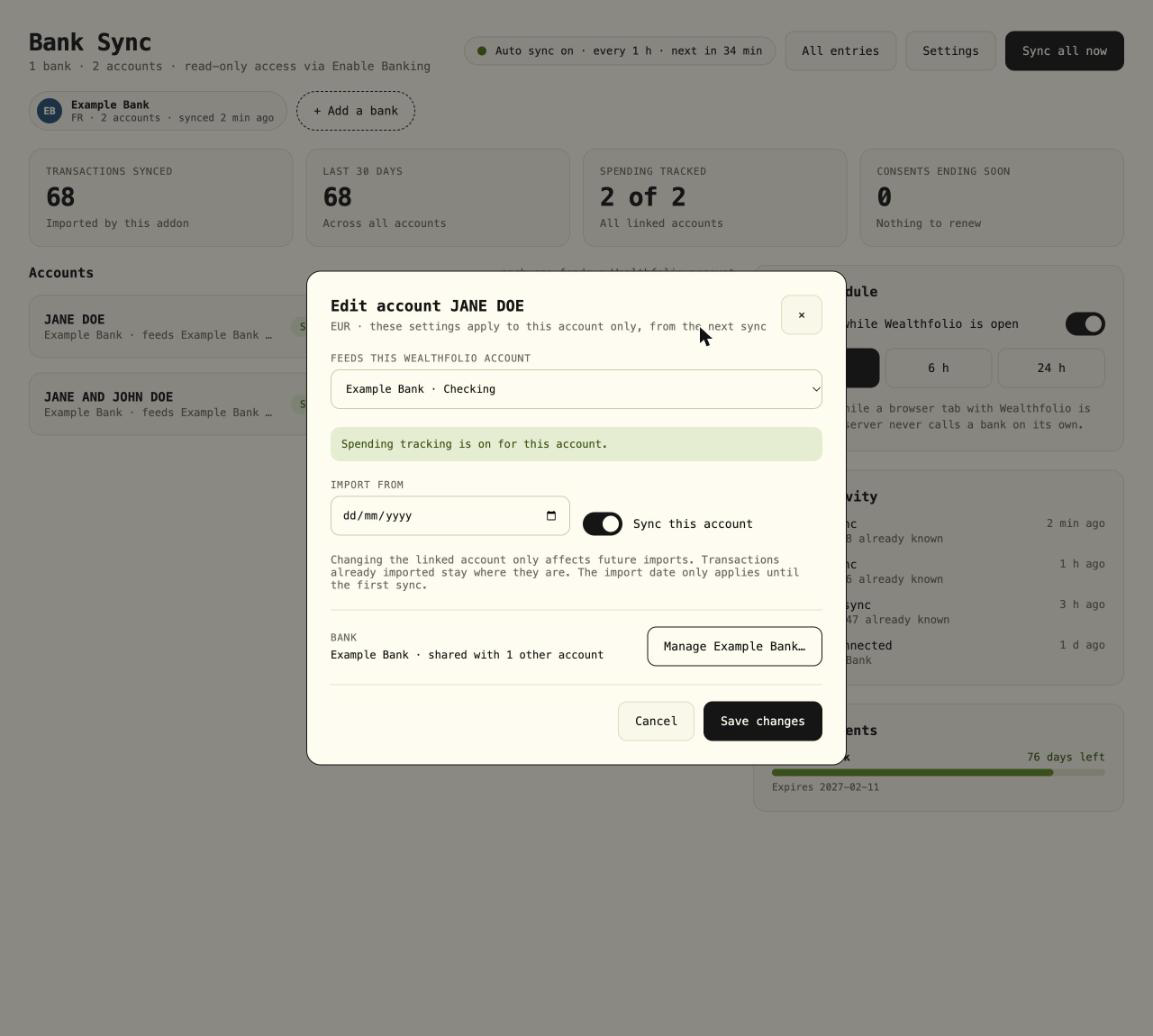
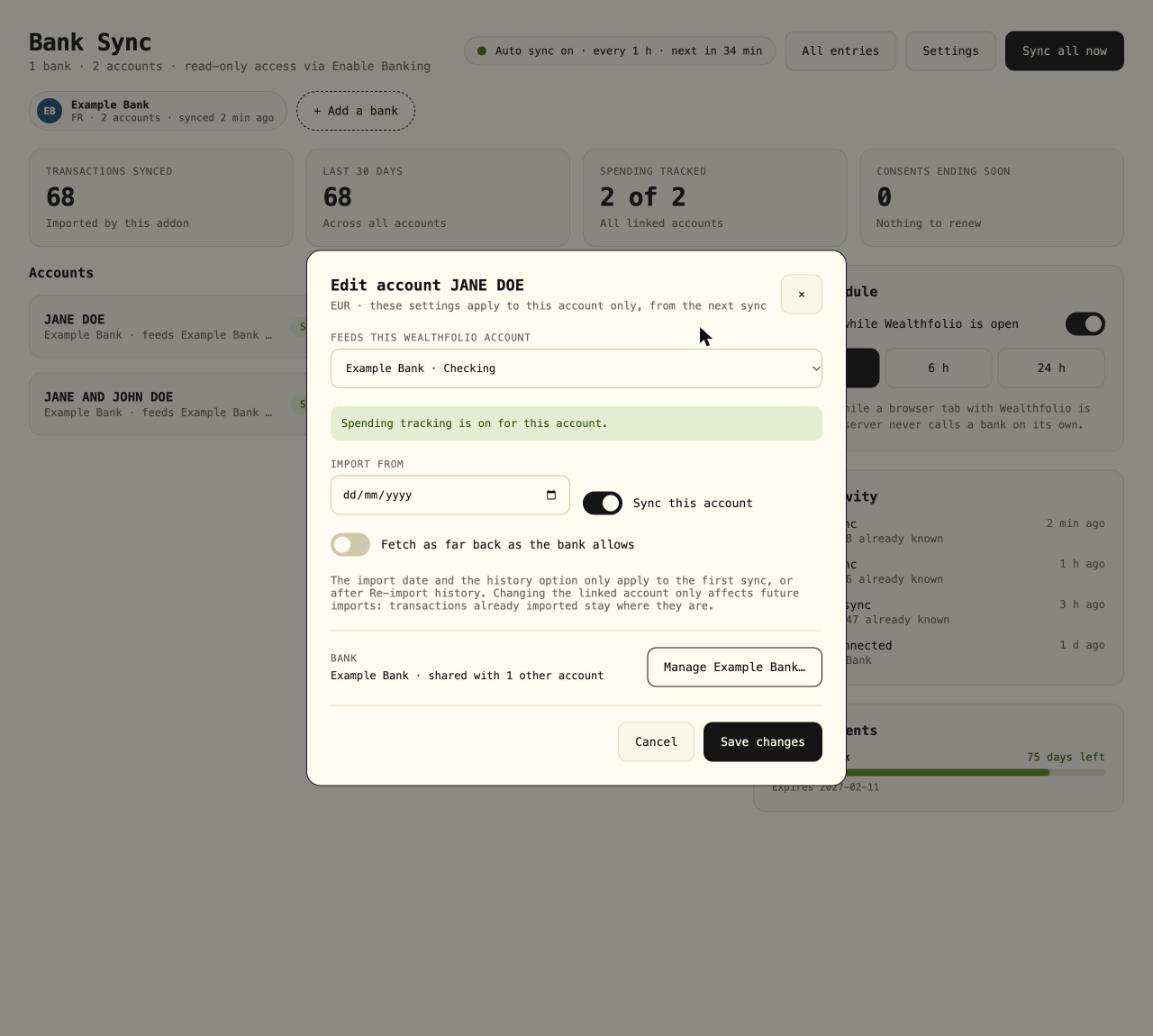
refactor: keep the history options per account and trim Settings
Settings only holds the Enable Banking credentials: auto sync and its interval already live on the overview. The global first-sync history options are replaced by the account's own Import from date and a per-account switch for the bank's longest history. Settings saved by older versions are read and the dropped options ignored.

Changed region(s): [[0.2498, 0.2162, 0.7493, 0.7722], [0.3747, 0.6178, 0.5308, 0.6795]]

diff --git a/src/pages/SettingsView.tsx b/src/pages/SettingsView.tsx
@@ -1,19 +1,17 @@
 import { useState } from 'react';
 import type { BankSync } from '../hooks/useBankSync';
-import { Switch } from '../components/ui';
 
 export function SettingsView({ app }: { app: BankSync }) {
   const [appId, setAppId] = useState('');
   const [privateKey, setPrivateKey] = useState('');
   const [redirect, setRedirect] = useState(app.redirectUrl);
-  const { settings } = app;
 
   return (
     <>
       <div className="ebs-row ebs-between">
         <div className="ebs-col" style={{ gap: 4 }}>
           <h1>Settings</h1>
-          <span className="ebs-muted">Enable Banking credentials and sync behaviour.</span>
+          <span className="ebs-muted">Your Enable Banking credentials.</span>
         </div>
         <button className="ebs-btn" onClick={() => app.setView('overview')}>
           Back to overview
@@ -53,49 +51,6 @@ export function SettingsView({ app }: { app: BankSync }) {
         </button>
         <span className="ebs-muted ebs-small">
           The key is kept in Wealthfolio's secrets vault and never shown again.
-        </span>
-      </div>
-
-      <div className="ebs-card" style={{ maxWidth: 760 }}>
-        <strong style={{ fontSize: 15 }}>Sync</strong>
-        <label className="ebs-row" style={{ gap: 12 }}>
-          <Switch on={settings.autoSync} label="Auto sync" onChange={(v) => app.updateSettings({ autoSync: v })} />
-          Auto sync while Wealthfolio is open, every
-          <input
-            className="ebs-input"
-            style={{ width: 80 }}
-            type="number"
-            min={1}
-            value={settings.intervalHours}
-            onChange={(e) => app.updateSettings({ intervalHours: Math.max(1, Number(e.target.value) || 1) })}
-          />
-          hours
-        </label>
-        <label className="ebs-row" style={{ gap: 12 }}>
-          First sync history (days)
-          <input
-            className="ebs-input"
-            style={{ width: 120 }}
-            type="number"
-            min={1}
-            placeholder="bank default"
-            value={settings.historyDays ?? ''}
-            onChange={(e) =>
-              app.updateSettings({ historyDays: e.target.value ? Math.max(1, Number(e.target.value)) : null })
-            }
-          />
-        </label>
-        <label className="ebs-row" style={{ gap: 12 }}>
-          <Switch
-            on={settings.longestHistory}
-            label="Longest history"
-            onChange={(v) => app.updateSettings({ longestHistory: v })}
-          />
-          Fetch the longest history the bank allows on the first sync
-        </label>
-        <span className="ebs-muted ebs-small">
-          History options apply to accounts that were never synced, or after "Re-import history". An account's own
-          "Import from" date takes precedence.
         </span>
       </div>
     </>

diff --git a/src/lib/sync.ts b/src/lib/sync.ts
@@ -1,7 +1,6 @@
 import type { ActivityImport } from '@wealthfolio/addon-sdk';
 import { mapTransactions, type BankTransaction } from './mapping';
 import type { TransactionsOptions } from './client';
-import type { Settings } from './settings';
 import type { Connection } from './state';
 
 const OVERLAP_DAYS = 7;
@@ -33,11 +32,7 @@ export interface SyncResult {
 const daysBefore = (date: string, days: number) =>
   new Date(Date.parse(date) - days * DAY_MS).toISOString().slice(0, 10);
 
-export async function syncConnection(
-  connection: Connection,
-  deps: SyncDeps,
-  settings: Pick<Settings, 'historyDays' | 'longestHistory'> = { historyDays: null, longestHistory: false },
-): Promise<SyncResult> {
+export async function syncConnection(connection: Connection, deps: SyncDeps): Promise<SyncResult> {
   const today = deps.today();
   if (Date.parse(connection.validUntil) < Date.parse(today)) {
     throw new Error(
@@ -56,11 +51,7 @@ export async function syncConnection(
     try {
       const options: TransactionsOptions = account.lastSyncedOn
         ? { dateFrom: daysBefore(account.lastSyncedOn, OVERLAP_DAYS) }
-        : {
-            dateFrom:
-              account.importFrom ?? (settings.historyDays ? daysBefore(today, settings.historyDays) : undefined),
-            ...(settings.longestHistory && { strategy: 'longest' as const }),
-          };
+        : { dateFrom: account.importFrom, ...(account.longestHistory && { strategy: 'longest' as const }) };
       const transactions = await deps.getTransactions(account.uid, options);
       const checked = await deps.checkImport(mapTransactions(account.accountId, transactions));
       const { summary } = await deps.importActivities(checked);

diff --git a/src/lib/sync.test.ts b/src/lib/sync.test.ts
@@ -45,16 +45,20 @@ describe('syncConnection', () => {
     expect(d.getTransactions).toHaveBeenCalledWith('u1', { dateFrom: undefined });
   });
 
-  it('limits the first sync to the configured history and honours the longest strategy', async () => {
+  it('asks the bank for the longest history on the first sync of an account set to it', async () => {
     const d = deps();
-    const fresh = { ...connection, accounts: [{ ...connection.accounts[0], lastSyncedOn: undefined }] };
-    await syncConnection(fresh, d, { historyDays: 365, longestHistory: true });
-    expect(d.getTransactions).toHaveBeenCalledWith('u1', { dateFrom: '2025-11-27', strategy: 'longest' });
+    const fresh = {
+      ...connection,
+      accounts: [{ ...connection.accounts[0], lastSyncedOn: undefined, longestHistory: true }],
+    };
+    await syncConnection(fresh, d);
+    expect(d.getTransactions).toHaveBeenCalledWith('u1', { dateFrom: undefined, strategy: 'longest' });
   });
 
-  it('uses the incremental window and default strategy once synced, regardless of history settings', async () => {
+  it('uses the incremental window once synced, even for an account set to the longest history', async () => {
     const d = deps();
-    await syncConnection(connection, d, { historyDays: 365, longestHistory: true });
+    const synced = { ...connection, accounts: [{ ...connection.accounts[0], longestHistory: true }] };
+    await syncConnection(synced, d);
     expect(d.getTransactions).toHaveBeenCalledWith('u1', { dateFrom: '2026-11-13' });
   });
 

diff --git a/src/components/EditAccountDialog.tsx b/src/components/EditAccountDialog.tsx
@@ -8,6 +8,7 @@ export function EditAccountDialog({ app, sessionId, uid }: { app: BankSync; sess
   const [target, setTarget] = useState(account?.accountId ?? '');
   const [importFrom, setImportFrom] = useState(account?.importFrom ?? '');
   const [syncEnabled, setSyncEnabled] = useState(account?.syncEnabled !== false);
+  const [longestHistory, setLongestHistory] = useState(account?.longestHistory === true);
   if (!connection || !account) return null;
 
   const close = () => app.setDialog(null);
@@ -67,9 +68,13 @@ export function EditAccountDialog({ app, sessionId, uid }: { app: BankSync; sess
           Sync this account
         </label>
       </div>
+      <label className="ebs-row" style={{ gap: 12 }}>
+        <Switch on={longestHistory} label="As far back as the bank allows" onChange={setLongestHistory} />
+        Fetch as far back as the bank allows
+      </label>
       <span className="ebs-small ebs-muted">
-        Changing the linked account only affects future imports. Transactions already imported stay where they are. The
-        import date only applies until the first sync.
+        The import date and the history option only apply to the first sync, or after Re-import history. Changing the
+        linked account only affects future imports: transactions already imported stay where they are.
       </span>
 
       <div className="ebs-row ebs-between" style={{ borderTop: '1px solid var(--line)', paddingTop: 18 }}>

diff --git a/src/lib/settings.test.ts b/src/lib/settings.test.ts
@@ -7,15 +7,24 @@ const memory = () => {
 };
 
 describe('settings', () => {
-  it('defaults to manual sync with no history override', async () => {
+  it('defaults to manual sync every 6 hours', async () => {
     expect(await loadSettings(memory())).toEqual(DEFAULT_SETTINGS);
-    expect(DEFAULT_SETTINGS).toMatchObject({ autoSync: false, longestHistory: false });
+    expect(DEFAULT_SETTINGS).toEqual({ autoSync: false, intervalHours: 6 });
   });
 
   it('round-trips and merges stored values over defaults', async () => {
     const s = memory();
     await saveSettings(s, { ...DEFAULT_SETTINGS, autoSync: true, intervalHours: 12 });
     expect(await loadSettings(s)).toMatchObject({ autoSync: true, intervalHours: 12 });
+  });
+
+  it('drops options that older versions stored', async () => {
+    const s = memory();
+    await s.set(
+      'eb-settings',
+      JSON.stringify({ autoSync: true, intervalHours: 1, historyDays: 365, longestHistory: true }),
+    );
+    expect(await loadSettings(s)).toEqual({ autoSync: true, intervalHours: 1 });
   });
 
   it('falls back to defaults on corrupt data', async () => {

diff --git a/src/lib/sync-account-options.test.ts b/src/lib/sync-account-options.test.ts
@@ -32,14 +32,24 @@ describe('per-account sync options', () => {
     expect(result.reports.map((r) => r.uid)).toEqual(['on']);
   });
 
-  it('starts the first sync at the account import date, overriding the history setting', async () => {
+  it('starts the first sync at the account import date', async () => {
     const d = deps();
     await syncConnection(
       connection([{ uid: 'u', name: 'A', currency: 'EUR', accountId: 'wf', importFrom: '2025-11-03' }]),
       d,
-      { historyDays: 30, longestHistory: false },
     );
     expect(d.getTransactions).toHaveBeenCalledWith('u', { dateFrom: '2025-11-03' });
+  });
+
+  it('combines the import date with the longest history', async () => {
+    const d = deps();
+    await syncConnection(
+      connection([
+        { uid: 'u', name: 'A', currency: 'EUR', accountId: 'wf', importFrom: '2025-11-03', longestHistory: true },
+      ]),
+      d,
+    );
+    expect(d.getTransactions).toHaveBeenCalledWith('u', { dateFrom: '2025-11-03', strategy: 'longest' });
   });
 
   it('ignores the import date once the account was synced', async () => {

diff --git a/src/hooks/useBankSync.ts b/src/hooks/useBankSync.ts
@@ -203,7 +203,7 @@ export function useBankSync(ctx: AddonContext, search: string) {
   const saveAccount = async (
     sessionId: string,
     uid: string,
-    patch: { accountId?: string; syncEnabled?: boolean; importFrom?: string },
+    patch: { accountId?: string; syncEnabled?: boolean; importFrom?: string; longestHistory?: boolean },
   ) => {
     try {
       let accountId = patch.accountId;
@@ -257,7 +257,7 @@ export function useBankSync(ctx: AddonContext, search: string) {
       for (const c of base.filter((x) => !scope.sessionId || x.sessionId === scope.sessionId)) {
         const subset = scope.uid ? { ...c, accounts: c.accounts.filter((a) => a.uid === scope.uid) } : c;
         try {
-          const result = await syncConnection(subset, deps, settings);
+          const result = await syncConnection(subset, deps);
           next = next.map((x) =>
             x.sessionId === c.sessionId
               ? { ...x, accounts: x.accounts.map((a) => result.updated.accounts.find((u) => u.uid === a.uid) ?? a) }

diff --git a/src/lib/bank.ts b/src/lib/bank.ts
@@ -22,7 +22,7 @@ export function updateAccount(
   connections: Connection[],
   sessionId: string,
   uid: string,
-  patch: Partial<Pick<LinkedAccount, 'accountId' | 'syncEnabled' | 'importFrom'>>,
+  patch: Partial<Pick<LinkedAccount, 'accountId' | 'syncEnabled' | 'importFrom' | 'longestHistory'>>,
 ): Connection[] {
   return connections.map((c) =>
     c.sessionId === sessionId ? { ...c, accounts: c.accounts.map((a) => (a.uid === uid ? { ...a, ...patch } : a)) } : c,
@@ -62,7 +62,7 @@ export function resetAccountSync(connections: Connection[], sessionId: string, u
   );
 }
 
-const CARRIED = ['accountId', 'importFrom', 'syncEnabled', 'lastSyncedOn', 'lastSyncedAt'] as const;
+const CARRIED = ['accountId', 'importFrom', 'syncEnabled', 'longestHistory', 'lastSyncedOn', 'lastSyncedAt'] as const;
 
 export function renewConnection(connections: Connection[], fresh: Connection): Connection[] {
   const index = connections.findIndex(

diff --git a/src/lib/bank.test.ts b/src/lib/bank.test.ts
@@ -52,9 +52,19 @@ describe('colors', () => {
 describe('updateAccount', () => {
   it('patches one bank account and leaves the others and the input untouched', () => {
     const list = [conn('a')];
-    const next = updateAccount(list, 'a', 'u2', { accountId: 'wf-2', syncEnabled: false, importFrom: '2025-11-03' });
+    const next = updateAccount(list, 'a', 'u2', {
+      accountId: 'wf-2',
+      syncEnabled: false,
+      importFrom: '2025-11-03',
+      longestHistory: true,
+    });
 
-    expect(next[0].accounts[1]).toMatchObject({ accountId: 'wf-2', syncEnabled: false, importFrom: '2025-11-03' });
+    expect(next[0].accounts[1]).toMatchObject({
+      accountId: 'wf-2',
+      syncEnabled: false,
+      importFrom: '2025-11-03',
+      longestHistory: true,
+    });
     expect(next[0].accounts[0].accountId).toBe('wf-1');
     expect(list[0].accounts[1].accountId).toBeUndefined();
   });

diff --git a/src/lib/settings.ts b/src/lib/settings.ts
@@ -3,15 +3,11 @@ const SETTINGS_KEY = 'eb-settings';
 export interface Settings {
   autoSync: boolean;
   intervalHours: number;
-  historyDays: number | null;
-  longestHistory: boolean;
 }
 
 export const DEFAULT_SETTINGS: Settings = {
   autoSync: false,
   intervalHours: 6,
-  historyDays: null,
-  longestHistory: false,
 };
 
 interface KeyValueStore {
@@ -23,7 +19,11 @@ export async function loadSettings(store: KeyValueStore): Promise<Settings> {
   const raw = await store.get(SETTINGS_KEY);
   if (!raw) return DEFAULT_SETTINGS;
   try {
-    return { ...DEFAULT_SETTINGS, ...JSON.parse(raw) };
+    const stored = JSON.parse(raw);
+    return {
+      autoSync: stored.autoSync ?? DEFAULT_SETTINGS.autoSync,
+      intervalHours: stored.intervalHours ?? DEFAULT_SETTINGS.intervalHours,
+    };
   } catch {
     return DEFAULT_SETTINGS;
   }

diff --git a/demo/mock-context.ts b/demo/mock-context.ts
@@ -121,10 +121,7 @@ export async function createDemoContext({ empty = false } = {}): Promise<AddonCo
       ],
     };
     storage.set('eb-connections', JSON.stringify([connection]));
-    storage.set(
-      'eb-settings',
-      JSON.stringify({ autoSync: true, intervalHours: 1, historyDays: 365, longestHistory: true }),
-    );
+    storage.set('eb-settings', JSON.stringify({ autoSync: true, intervalHours: 1 }));
     storage.set('eb-last-auto-sync', String(Date.now() - 26 * 60_000));
     storage.set(
       'eb-sync-log',

diff --git a/src/lib/auto-sync.ts b/src/lib/auto-sync.ts
@@ -31,7 +31,7 @@ export async function autoSyncIfDue({ storage, createSyncDeps, now, log }: AutoS
 
     for (const connection of connections) {
       try {
-        const result = await syncConnection(connection, syncDeps, settings);
+        const result = await syncConnection(connection, syncDeps);
         result.reports.forEach((r) => {
           totals.imported += r.imported ?? 0;
           totals.duplicates += r.duplicates ?? 0;
